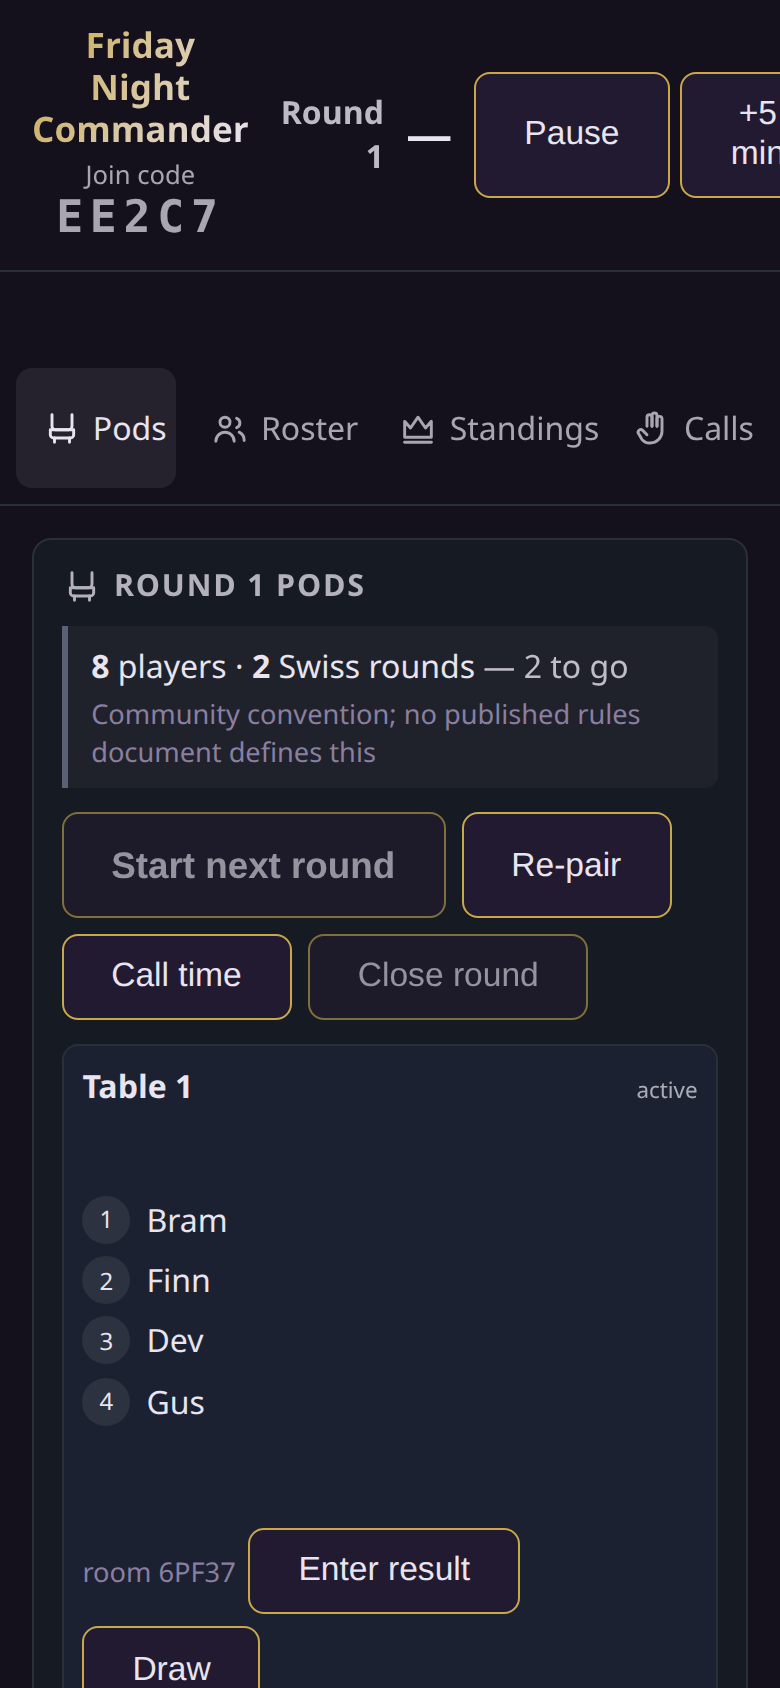
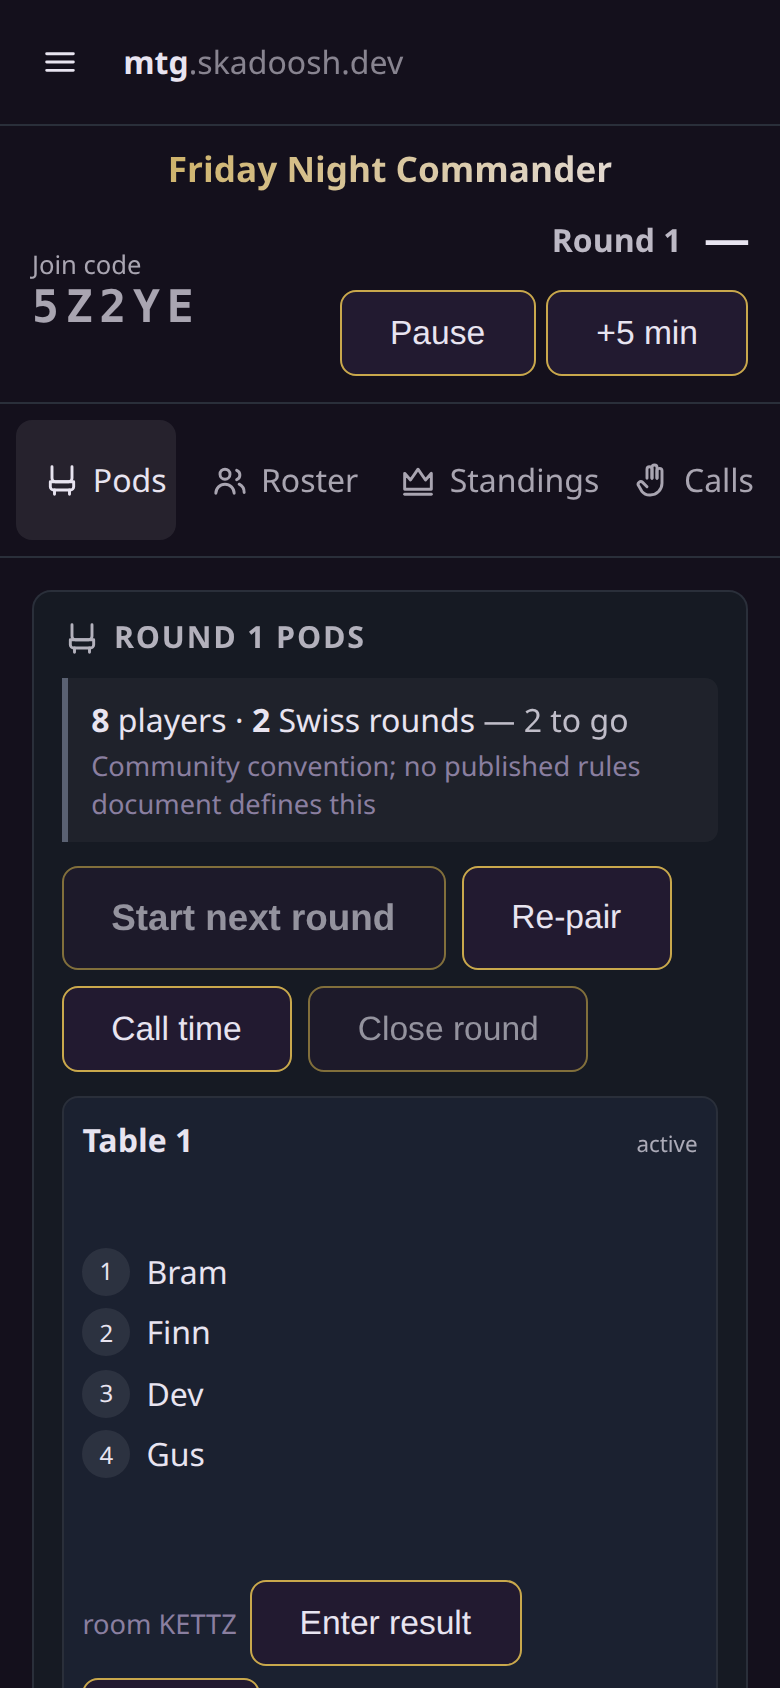
Fresh front-page screenshots, and a commander sheet that reads at a glance
The screenshots on the site predate the nav rework and the console
changes; regenerate them from the running app. The commander-damage
capture showed a column of zeros with its tap affordances invisible —
now the minus and plus sit at the row's edges instead of floating like
punctuation, the rows size to a thumb instead of stretching to fill
70vh, the capture carries real damage so the sheet's purpose is
visible, and the caption says what it shows.

Also: the console bar's three-zone grid didn't fit a phone (clipped
clock, thrice-wrapped title) — on narrow screens the name takes the
full first row with code and clock beneath, and the clock wraps its
controls instead of spilling off-screen.

diff --git a/frontend/src/table/table.css b/frontend/src/table/table.css
@@ -1745,7 +1745,7 @@ button.ghost.danger {
 
 .cmd-panel {
   width: 70vw;
-  height: 70vh;
+  max-height: 70vh; /* sized by its rows — four players shouldn't fill a wall */
   max-width: 70rem;
   display: flex;
   flex-direction: column;
@@ -1777,8 +1777,8 @@ button.ghost.danger {
 
 .cmd-row {
   position: relative;
-  flex: 1;
-  min-height: 3.2rem;
+  flex: none;
+  min-height: 4rem; /* a full thumb, not a fraction of the viewport */
   display: flex;
   align-items: stretch;
   border-bottom: 1px solid #241c33;
@@ -1792,16 +1792,28 @@ button.ghost.danger {
   background: rgba(255, 255, 255, 0.04);
 }
 
-/* same gesture as the seat cards behind: left removes, right adds */
+/* same gesture as the seat cards behind: left removes, right adds. The
+   icons sit at the row's edges so they read as edge affordances, not as
+   punctuation floating beside the name and the number. */
 .cmd-half {
   flex: 1;
   border: none;
   background: none;
   color: inherit;
-  opacity: 0.5;
-  display: grid;
-  place-items: center;
+  opacity: 0.55;
+  display: flex;
+  align-items: center;
   cursor: pointer;
+}
+
+.cmd-half.dec {
+  justify-content: flex-start;
+  padding-left: 1.1rem;
+}
+
+.cmd-half.inc {
+  justify-content: flex-end;
+  padding-right: 1.1rem;
 }
 
 .cmd-half:active {

diff --git a/frontend/src/layouts/layouts.css b/frontend/src/layouts/layouts.css
@@ -246,18 +246,23 @@
   flex-direction: column;
 }
 
-/* equal flanks so the title is centered on the bar, not on the leftovers */
+/* phone: the name gets the full width, the code and the clock share the row
+   below. wide: one row, equal flanks, so the title centers on the bar. */
 .console-bar {
   display: grid;
-  grid-template-columns: 1fr auto 1fr;
+  grid-template-columns: 1fr auto;
+  grid-template-areas:
+    "title title"
+    "sub status";
   align-items: center;
-  gap: 1rem;
+  gap: 0.35rem 1rem;
   padding: 0.8rem 1rem;
   margin-bottom: 0; /* the global header margin is for page titles, not bars */
   border-bottom: 1px solid #2a2f3a;
 }
 
 .console-bar h1 {
+  grid-area: title;
   margin: 0;
   font-size: 1.1rem;
   line-height: 1.2;
@@ -265,6 +270,7 @@
 }
 
 .console-sub {
+  grid-area: sub;
   justify-self: start;
   text-align: left;
   margin: 0;
@@ -273,6 +279,7 @@
 }
 
 .console-status {
+  grid-area: status;
   justify-self: end;
   text-align: right;
 }
@@ -338,6 +345,8 @@
 
   .console-bar {
     grid-area: bar;
+    grid-template-columns: 1fr auto 1fr;
+    grid-template-areas: "sub title status";
   }
 
   .console-nav {

diff --git a/frontend/shots/capture.spec.ts b/frontend/shots/capture.spec.ts
@@ -54,12 +54,19 @@ test("a game in progress, four players", async ({ page, browser }) => {
   await expect(page.locator(".tracker-bar")).toBeVisible({ timeout: 10_000 });
   await shot(page, "table-display");
 
-  // commander damage, opened from a seat
+  // commander damage, opened from a seat — with damage on the board, so the
+  // shot shows what the sheet is for instead of a column of zeros
   const grid = page.locator(".seat-cmd-grid").first();
   if (await grid.count()) {
     await grid.click();
     const panel = page.locator(".cmd-panel");
-    if (await panel.isVisible().catch(() => false)) await shot(page, "table-commander");
+    if (await panel.isVisible().catch(() => false)) {
+      const inc = (row: number) => page.locator(".cmd-row").nth(row).locator(".cmd-half.inc");
+      for (let i = 0; i < 7; i++) await inc(1).click();
+      for (let i = 0; i < 3; i++) await inc(2).click();
+      for (let i = 0; i < 12; i++) await inc(3).click();
+      await shot(page, "table-commander");
+    }
   }
 });
 

diff --git a/frontend/src/site/Home.tsx b/frontend/src/site/Home.tsx
@@ -122,7 +122,7 @@ export default function Home() {
           {[
             ["table-player", "Your own phone: life, commander damage, and nothing else in the way."],
             ["table-display", "One phone showing the whole table, without giving up its seat."],
-            ["table-commander", "Commander damage as a grid — left to remove, right to add."],
+            ["table-commander", "Commander damage tracked per attacker, one tap per point."],
             ["tournament-console", "Running an event: pods, pairings, timer and judge calls."],
             ["tournament-standings", "Standings players can read from inside their game."],
           ].map(([file, caption]) => (

diff --git a/frontend/src/tournament/tournament.css b/frontend/src/tournament/tournament.css
@@ -19,12 +19,15 @@
 .tq-clock {
   display: flex;
   align-items: center;
-  gap: 0.75rem;
+  justify-content: flex-end;
+  flex-wrap: wrap; /* a phone fits the clock, then the controls below it */
+  gap: 0.5rem 0.75rem;
 }
 
 .tq-round {
   font-weight: 600;
   opacity: 0.8;
+  white-space: nowrap;
 }
 
 .tq-time {
